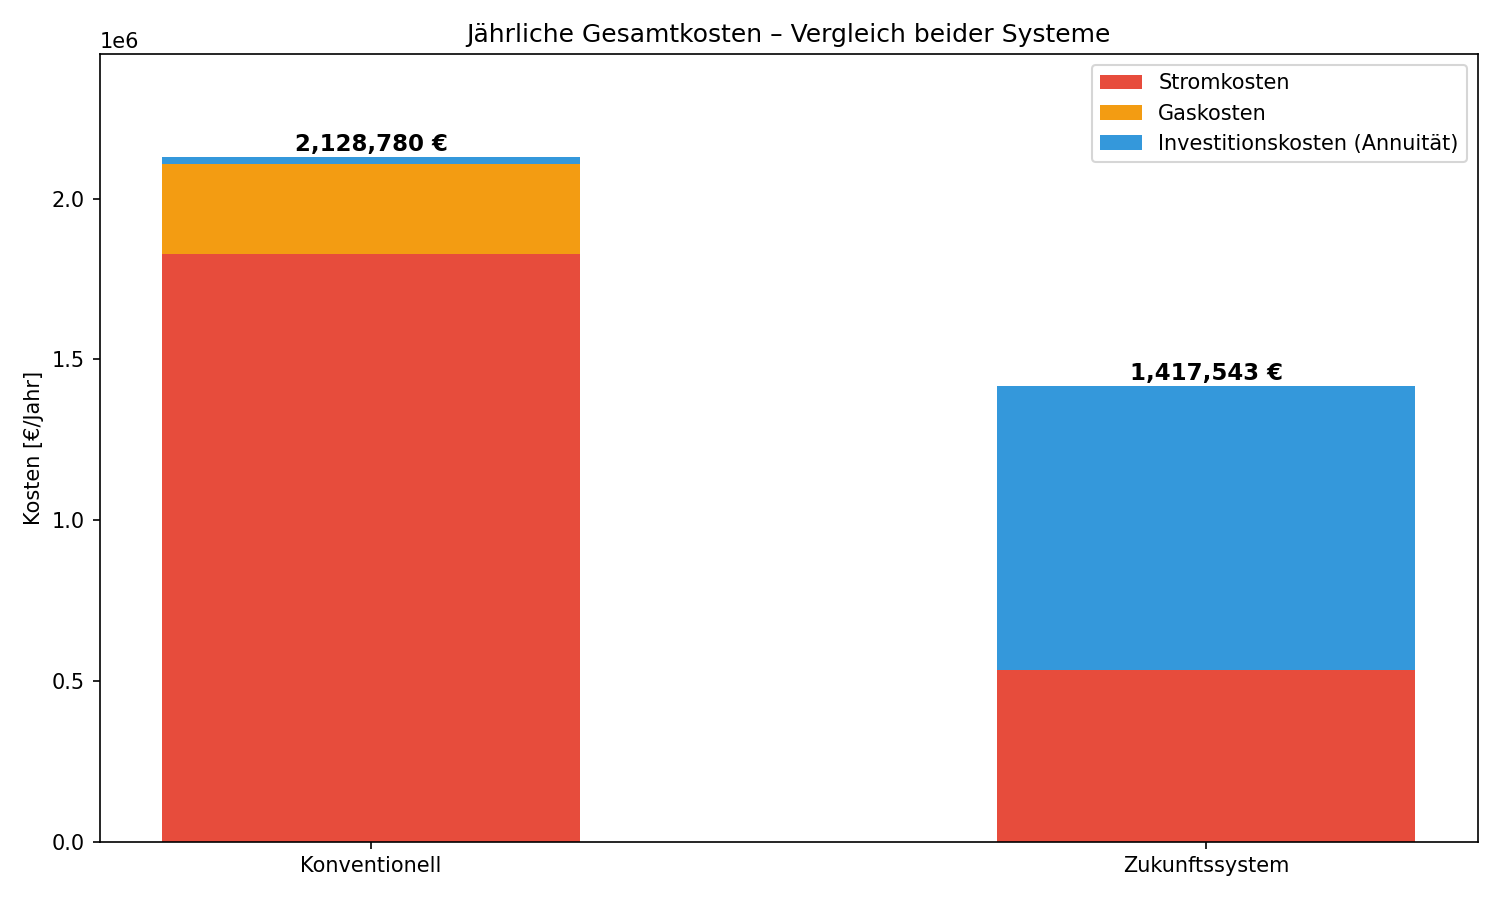
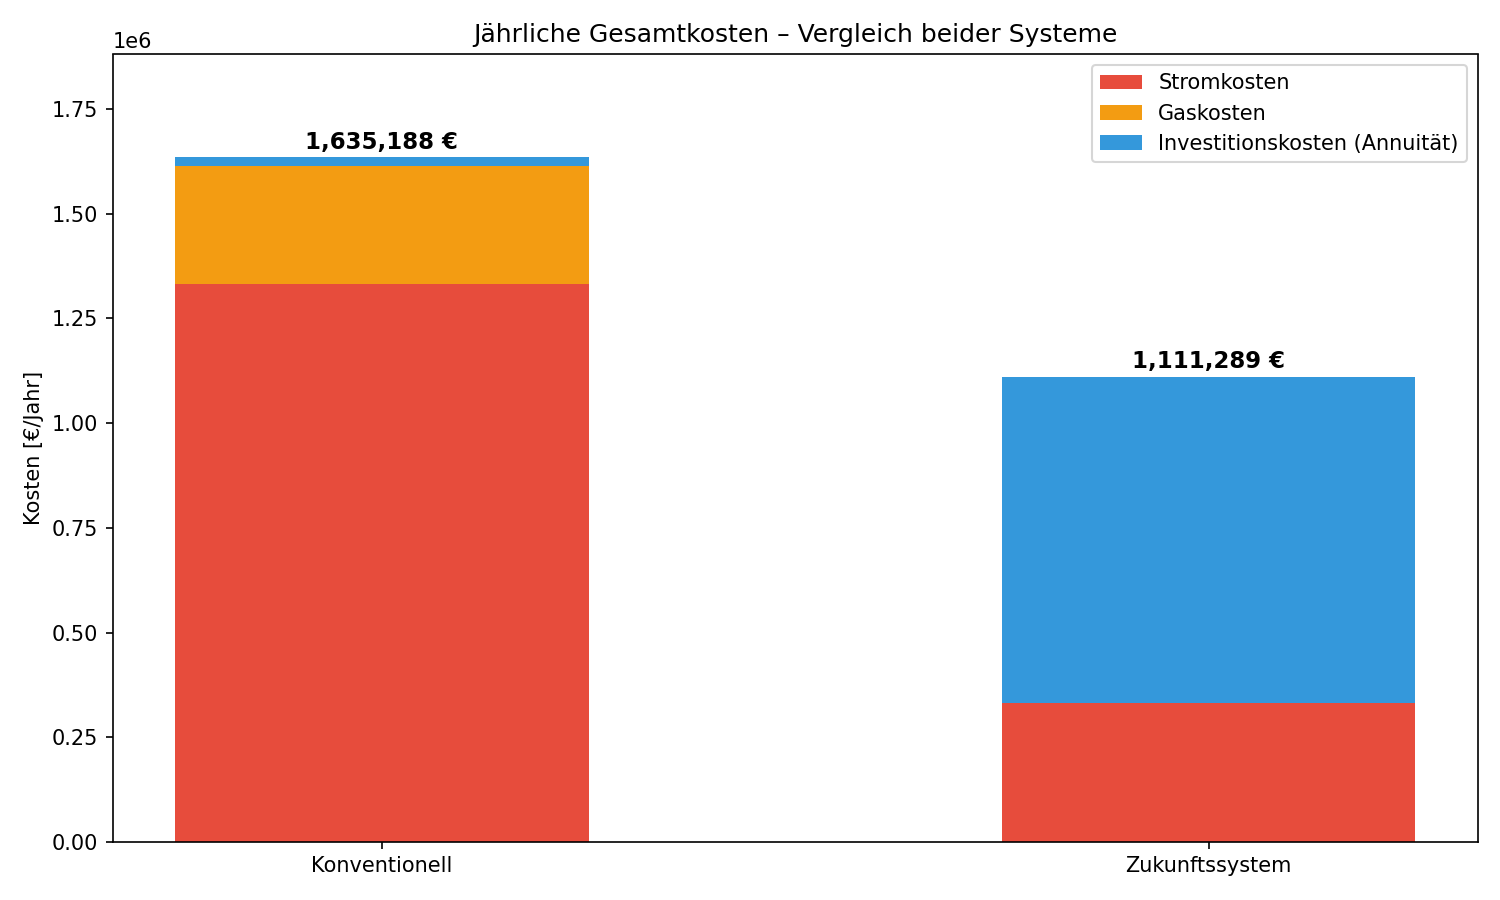
.

diff --git a/Zukunftssystem.py b/Zukunftssystem.py
@@ -62,8 +62,6 @@ waermespeicher_standing_loss = 0.005         # Verlust pro Stunde
 
 # Netzinteraktion
 netz_import_kosten = 0.25       # €/kWh
-netz_export_erloese = 0         # €/kWh
-
 
 # ============================================================
 # 3. Daten vorbereiten
@@ -105,6 +103,7 @@ network.set_snapshots(zeitindex)
 network.add('Bus', name='Strom', carrier='strom')
 network.add('Bus', name='Wind', carrier='wind')
 network.add('Bus', name='Waerme', carrier='waerme')
+
 
 # Lasten
 network.add('Load', name='Stromlast', bus='Strom', p_set=strombedarf)
@@ -182,62 +181,72 @@ print("=" * 80)
 
 
 # Investitionskosten insgesamt 
-invest_cost_stores      = network.stores.e_nom_opt * network.stores.capital_cost * network.stores.lifetime
-invest_cost_generators  = network.generators.p_nom_opt * network.generators.capital_cost * network.generators.lifetime
-invest_cost_links       = network.links.p_nom_opt * network.links.capital_cost * network.links.lifetime
-df_invest_cost          = pd.concat([invest_cost_stores, invest_cost_generators, invest_cost_links]).fillna(0)
-invest_cost             = round(df_invest_cost.sum(), 2)
+invest_cost_stromspeicher    = network.stores.e_nom_opt['Stromspeicher'] * capital_cost_stromspeicher * stromspeicher_lifetime
+invest_cost_waermespeicher   = network.stores.e_nom_opt['Waermespeicher'] * capital_cost_waermespeicher * waermespeicher_lifetime
+invest_cost_windkraftanlage  = network.generators.p_nom_opt['Windkraftanlage'] * capital_cost_wind * wind_lifetime 
+invest_cost_waermepumpe      = network.links.p_nom_opt['Waermepumpe'] * capital_cost_wp * wp_lifetime
+invest_cost_gesamt = invest_cost_stromspeicher + invest_cost_waermespeicher + invest_cost_windkraftanlage + invest_cost_waermepumpe 
 
 print(f"\n--- Investitionskosten insgesamt ---")
-print(df_invest_cost)
-print(f"\nInvestitionskosten insgesamt: {invest_cost:.2f} €")
+print(f'Stromspeicher:  {invest_cost_stromspeicher:>12.2f} €')
+print(f'Wärmespeicher:  {invest_cost_waermespeicher:>12.2f} €')
+print(f'Windkraftanlage:{invest_cost_windkraftanlage:>12.2f} €')
+print(f'Wärmepumpe:     {invest_cost_waermepumpe:>12.2f} €')
+print(f"\nInvestitionskosten insgesamt: {invest_cost_gesamt:.2f} €")
 
 # Investitionskosten pro Jahr
-invest_cost_year_stores      = network.stores.e_nom_opt * network.stores.capital_cost 
-invest_cost_year_generators  = network.generators.p_nom_opt * network.generators.capital_cost 
-invest_cost_year_links       = network.links.p_nom_opt * network.links.capital_cost 
-df_invest_cost_year          = pd.concat([invest_cost_year_stores, invest_cost_year_generators, invest_cost_year_links]).fillna(0)
-invest_cost_year             = round(df_invest_cost_year.sum(), 2)
+invest_cost_stromspeicher_year    = network.stores.e_nom_opt['Stromspeicher'] * capital_cost_stromspeicher 
+invest_cost_waermespeicher_year   = network.stores.e_nom_opt['Waermespeicher'] * capital_cost_waermespeicher
+invest_cost_windkraftanlage_year  = network.generators.p_nom_opt['Windkraftanlage'] * capital_cost_wind
+invest_cost_waermepumpe_year      = network.links.p_nom_opt['Waermepumpe'] * capital_cost_wp
+invest_cost_gesamt_year = invest_cost_stromspeicher_year + invest_cost_waermespeicher_year + invest_cost_windkraftanlage_year + invest_cost_waermepumpe_year 
 
-print(f"\n--- Jährliche Investitionskosten ---")
-print(df_invest_cost_year)
-print(f"\nJährliche Investitionskosten: {invest_cost_year:.2f} €")
-
+print(f"\n--- Investitionskosten jährlich ---")
+print(f'Stromspeicher:  {invest_cost_stromspeicher_year:>12.2f} €')
+print(f'Wärmespeicher:  {invest_cost_waermespeicher_year:>12.2f} €')
+print(f'Windkraftanlage:{invest_cost_windkraftanlage_year:>12.2f} €')
+print(f'Wärmepumpe:     {invest_cost_waermepumpe_year:>12.2f} €')
+print(f"\nInvestitionskosten jährlich: {invest_cost_gesamt_year:.2f} €")
 
 # Optimierte Leistung
 print("\n--- Optimierte Leistung ---")
 wind_opt = network.generators.p_nom_opt['Windkraftanlage']
-print(f"Windanlage:       {wind_opt:>12.2f} kW ")
+print(f"Windanlage:        {wind_opt:>12.2f} kW ")
 waermepume_opt = network.links.p_nom_opt['Waermepumpe']
-print(f"Wärmepumpe:       {waermepume_opt:>12.2f} kW")
+print(f"Wärmepumpe:        {waermepume_opt:>12.2f} kW")
 
 # Optimierte Speicherkapazität
 stormspeicher_opt = network.stores.e_nom_opt['Stromspeicher']
-print(f"Stromspeicher:       {stormspeicher_opt:>12.2f} kWh")
+print(f"Stromspeicher:     {stormspeicher_opt:>12.2f} kWh")
 waermespeicher_opt = network.stores.e_nom_opt['Waermespeicher']
-print(f"Wärmespeicher:       {waermespeicher_opt:>12.2f} kWh")
+print(f"Wärmespeicher:     {waermespeicher_opt:>12.2f} kWh")
 
 
 # Strombilanz
 print("\n--- Strombilanz ---")
 strom_wind_gesamt = network.generators_t.p['Windkraftanlage'].sum()
-strom_wind_eigen = network.links_t.p0['Wind_Eigenverbrauch'].sum()
+
+p_store = network.stores_t.p["Stromspeicher"]   # kW
+energie_in_speicher  = ((-p_store).clip(lower=0)).sum() 
+
 strom_netz_import = network.generators_t.p['Netz_Import'].sum()
 strom_wp = network.links_t.p0['Waermepumpe'].sum()
 strom_last = network.loads_t.p['Stromlast'].sum()
 
-print(f"Windkraft gesamt: {strom_wind_gesamt:>12.2f} kWh")
-print(f"  Eigenverbrauch: {strom_wind_eigen:>12.2f} kWh")
-print(f"Netz Import:      {strom_netz_import:>12.2f} kWh")
-print(f"Wärmepumpe:       {strom_wp:>12.2f} kWh")
-print(f"Stromlast:        {strom_last:>12.2f} kWh")
+
+print(f"Windkraft gesamt:                   {strom_wind_gesamt:>12.2f} kWh")
+print(f'Energie die in den Speicher fließt: {energie_in_speicher:>12.2f} kWh')
+print(f"Netz Import:                        {strom_netz_import:>12.2f} kWh")
+print(f"Wärmepumpe:                         {strom_wp:>12.2f} kWh")
+print(f"Stromlast:                          {strom_last:>12.2f} kWh")
+
 
 
 # Gesamtkosten Gewächshaus für ein Jahr 
 print("\n--- Gesamtkosten pro Jahr ---")
 kosten_strom_import = strom_netz_import * netz_import_kosten
 gesamt_kosten_gewaechshaus = kosten_strom_import + invest_cost_year
-print(f"Stromimportkosten:            {kosten_strom_import:>12.2f} €")
+print(f"Stromimportkosten:             {kosten_strom_import:>12.2f} €")
 print(f"Jährliche Investitionskosten:  {invest_cost_year:>12.2f} €")
 print(f"Gesamtkosten pro Jahr:         {gesamt_kosten_gewaechshaus:>12.2f} €")
 
@@ -259,6 +268,15 @@ print(f"Stromautarkie:    {autarkie_strom:>12.2f} %")
 
 mittlerer_cop = abs(waerme_wp / strom_wp) if strom_wp > 0 else 0
 print(f"Realisierter COP: {mittlerer_cop:>12.2f}")
+
+# Nicht genutzte Windenergie
+windenergie_möglich = (network.generators.p_nom_opt['Windkraftanlage'] * wind_p_max_pu).sum()
+windenergie_nicht_genutzt = windenergie_möglich - strom_wind_gesamt
+windenergie_genutzt_prozent = (strom_wind_gesamt) / windenergie_möglich * 100
+
+print("\n--- Auslastung der Windkraftanlage ---")
+print(f'Nicht genutzte Windenergie: {windenergie_nicht_genutzt:.2f} kWh')
+print(f'Nur {windenergie_genutzt_prozent:.2f} % der möglichen Energie der Windkraftanlage wird genutzt')
 
 print("\n" + "=" * 80)
 print("Optimierung erfolgreich abgeschlossen!")

diff --git a/vergleich.py b/vergleich.py
@@ -9,6 +9,8 @@ import pandas as pd
 import numpy as np
 import matplotlib.pyplot as plt
 import matplotlib.dates as mdates
+import locale
+locale.setlocale(locale.LC_TIME, 'de_DE.UTF-8')
 
 # ============================================================
 # 1. Gemeinsame Daten einlesen
